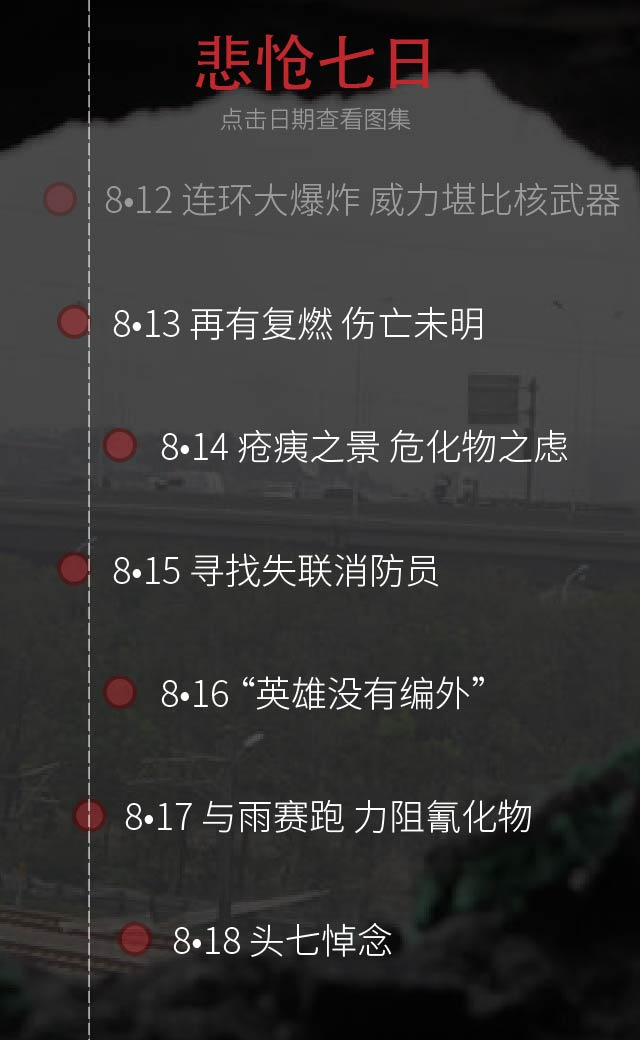
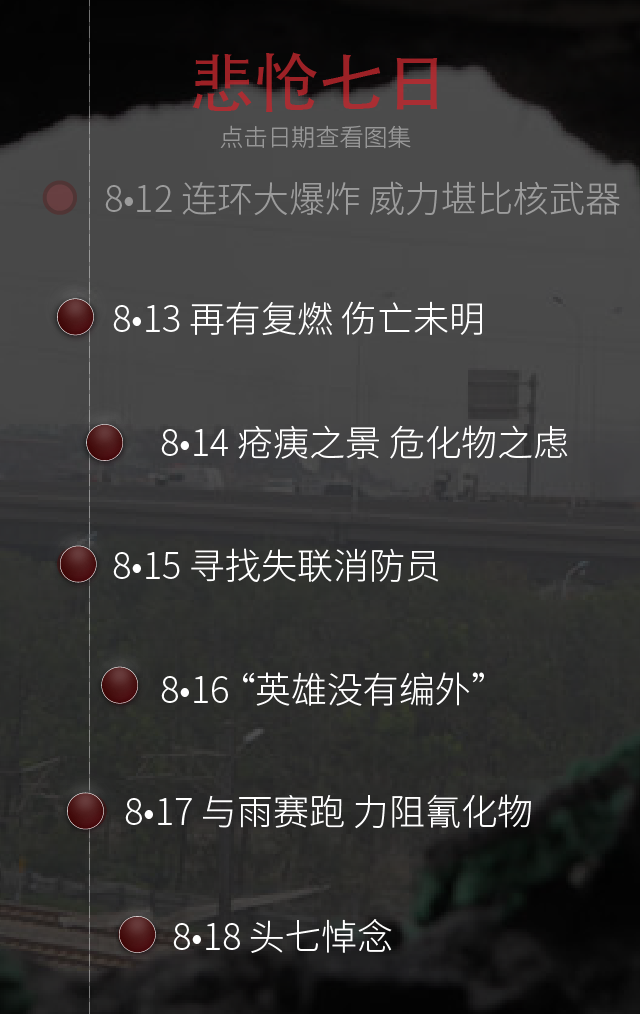
15081808

diff --git a/Tianjin_bomb/index.html b/Tianjin_bomb/index.html
@@ -62,11 +62,11 @@
 
         </div>
         <!--slide4-->
-        <div class="swiper-slide s4">
+    <!--     <div class="swiper-slide s4">
 
 <!--         <img src="img/logo_white.png" style="position:absolute;left:20px;top:40px;height:40px;width:40px">
  -->        
-        <div class="ani resize" style="width:90%;height:auto;left:5%;top:10%;z-index:4;" swiper-animate-effect="fadeInUp" swiper-animate-duration="0.5s" swiper-animate-delay="0s"  >
+     <!--    <div class="ani resize" style="width:90%;height:auto;left:5%;top:10%;z-index:4;" swiper-animate-effect="fadeInUp" swiper-animate-duration="0.5s" swiper-animate-delay="0s"  >
         <p style="color:white;font-size:25px;z-index:10">复燃</p> 
         </div>
         <img src="img/4_refire.jpg" class="ani resize" style="width:90%;height:auto;left:5%;top:25%;z-index:4;" swiper-animate-effect="fadeInUp" swiper-animate-duration="0.5s" swiper-animate-delay="0.3s"  >
@@ -75,7 +75,7 @@
         </div>
         <img src="img/move_up_tip.png" style="width:40px;height:15px; top:450px; left:140px;" id="array" class="resizer">
 
-        </div>
+        </div> --> 
 
         <!--slide5-->
         <div class="swiper-slide s5">
@@ -214,7 +214,7 @@ var mySwiper = new Swiper ('.swiper-container', {
 
     function updateTimeBox_2(){
   //append base content
-   var time_box_2=$("<div class='time_box_2' id='time_box_2'></div>").css({"background-color":"black","opacity":".9","position":"absolute","top":"30px","left":"24px","width":"272px","height":"450px","z-index":"10"});
+   var time_box_2=$("<div class='time_box_2' id='time_box_2'></div>").css({"background-color":"black","opacity":".95","position":"absolute","top":"30px","left":"24px","width":"272px","height":"450px","z-index":"10"});
    $("#time_box_two").append(time_box_2);
     
     //append close button 
@@ -270,7 +270,7 @@ var mySwiper = new Swiper ('.swiper-container', {
    
 
     //append text
-    var time_box_2_content=$("<div id='time_box_2_content' class='map_content'>财新直击：泰达医院门口的志愿者和不少市民和出租车司机来来往往，运送伤员、物资。</div>");
+    var time_box_2_content=$("<div id='time_box_2_content' class='map_content'>上午，之前发生爆炸的天津滨海新区物流仓库发生复燃。</div>");
     time_box_2.append(time_box_2_content);
     //load the atlas
     var elem = document.getElementById('slider_time_2');
@@ -296,7 +296,7 @@ var mySwiper = new Swiper ('.swiper-container', {
 
     function updateTimeBox_3(){
   //append base content
-   var time_box_3=$("<div class='time_box_3' id='time_box_3'></div>").css({"background-color":"black","opacity":".9","position":"absolute","top":"30px","left":"24px","width":"272px","height":"450px","z-index":"10"});
+   var time_box_3=$("<div class='time_box_3' id='time_box_3'></div>").css({"background-color":"black","opacity":".95","position":"absolute","top":"30px","left":"24px","width":"272px","height":"450px","z-index":"10"});
    $("#time_box_three").append(time_box_3);
     
     //append close button 
@@ -362,7 +362,7 @@ var mySwiper = new Swiper ('.swiper-container', {
     callback: function(index, element) {
     $("#time_box_3_ol ol>li").attr("class",""),
     $("#time_box_3_ol ol>li").eq(index).attr("class", "current"),
-    $("#time_box_3_content").text($("#slider_time_4 ul>li").eq(index).find("img").attr("alt"))
+    $("#time_box_3_content").text($("#slider_time_3 ul>li").eq(index).find("img").attr("alt"))
 }
 });
 };
@@ -378,7 +378,7 @@ var mySwiper = new Swiper ('.swiper-container', {
 
     function updateTimeBox_4(){
   //append base content
-   var time_box_4=$("<div class='time_box_4' id='time_box_4'></div>").css({"background-color":"black","opacity":".9","position":"absolute","top":"30px","left":"24px","width":"272px","height":"450px","z-index":"10"});
+   var time_box_4=$("<div class='time_box_4' id='time_box_4'></div>").css({"background-color":"black","opacity":".95","position":"absolute","top":"30px","left":"24px","width":"272px","height":"450px","z-index":"10"});
    $("#time_box_four").append(time_box_4);
     
 
@@ -463,7 +463,7 @@ var mySwiper = new Swiper ('.swiper-container', {
 
     function updateTimeBox_5(){
   //append base content
-   var time_box_5=$("<div class='time_box_5' id='time_box_5'></div>").css({"background-color":"black","opacity":".9","position":"absolute","top":"30px","left":"24px","width":"272px","height":"450px","z-index":"10"});
+   var time_box_5=$("<div class='time_box_5' id='time_box_5'></div>").css({"background-color":"black","opacity":".95","position":"absolute","top":"30px","left":"24px","width":"272px","height":"450px","z-index":"10"});
    $("#time_box_five").append(time_box_5);
     
     //append close button 
@@ -563,7 +563,7 @@ var mySwiper = new Swiper ('.swiper-container', {
 
     function updateTimeBox_6(){
   //append base content
-   var time_box_6=$("<div class='time_box_6' id='time_box_6'></div>").css({"background-color":"black","opacity":".9","position":"absolute","top":"30px","left":"24px","width":"272px","height":"450px","z-index":"10"});
+   var time_box_6=$("<div class='time_box_6' id='time_box_6'></div>").css({"background-color":"black","opacity":".95","position":"absolute","top":"30px","left":"24px","width":"272px","height":"450px","z-index":"10"});
    $("#time_box_six").append(time_box_6);
     
     //append close button 
@@ -645,7 +645,7 @@ var mySwiper = new Swiper ('.swiper-container', {
 
     function updateTimeBox_7(){
   //append base content
-   var time_box_7=$("<div class='time_box_7' id='time_box_7'></div>").css({"background-color":"black","opacity":".9","position":"absolute","top":"30px","left":"24px","width":"272px","height":"450px","z-index":"10"});
+   var time_box_7=$("<div class='time_box_7' id='time_box_7'></div>").css({"background-color":"black","opacity":".95","position":"absolute","top":"30px","left":"24px","width":"272px","height":"450px","z-index":"10"});
    $("#time_box_seven").append(time_box_7);
     
     //append close button 
@@ -735,7 +735,7 @@ var mySwiper = new Swiper ('.swiper-container', {
 
     function updateMapBox_1(){
   //append base content
-   var map_box_1=$("<div class='map_box_1' id='map_box_1'></div>").css({"background-color":"black","opacity":".9","position":"absolute","top":"30px","left":"24px","width":"272px","height":"450px","z-index":"10"});
+   var map_box_1=$("<div class='map_box_1' id='map_box_1'></div>").css({"background-color":"black","opacity":".95","position":"absolute","top":"30px","left":"24px","width":"272px","height":"450px","z-index":"10"});
    $("#map_box_one").append(map_box_1);
     
     //append close button 
@@ -825,7 +825,7 @@ var mySwiper = new Swiper ('.swiper-container', {
 
     function updateMapBox_2(){
    //append map_box
-        var map_box_2=$("<div class='map_box_2' id='map_box_2'></div>").css({"background-color":"black","opacity":".9","position":"absolute","top":"30px","left":"24px","width":"272px","height":"450px","z-index":"10"});
+        var map_box_2=$("<div class='map_box_2' id='map_box_2'></div>").css({"background-color":"black","opacity":".95","position":"absolute","top":"30px","left":"24px","width":"272px","height":"450px","z-index":"10"});
         $("#map_box_two").append(map_box_2);
       //append map content
         var map_box_2_img=$("<img src='img/2-1.jpg'></img>").css({"position":"absolute","width":"100%","height":"auto","top":"10%"});
@@ -855,7 +855,7 @@ var mySwiper = new Swiper ('.swiper-container', {
 
     function updateMapBox_3(){
        //append map_box
-        var map_box_3=$("<div class='map_box_3' id='map_box_3'></div>").css({"background-color":"black","opacity":".9","position":"absolute","top":"30px","left":"24px","width":"272px","height":"450px","z-index":"10"});
+        var map_box_3=$("<div class='map_box_3' id='map_box_3'></div>").css({"background-color":"black","opacity":".95","position":"absolute","top":"30px","left":"24px","width":"272px","height":"450px","z-index":"10"});
         $("#map_box_three").append(map_box_3);
       //append map content
         var map_box_3_img=$("<img src='img/3-1.jpg'></img>").css({"position":"absolute","width":"100%","height":"auto","top":"10%"});
@@ -883,7 +883,7 @@ var mySwiper = new Swiper ('.swiper-container', {
 
     function updateMapBox_4(){
          //append base content
-   var map_box_4=$("<div class='map_box_4' id='map_box_4'></div>").css({"background-color":"black","opacity":".9","position":"absolute","top":"30px","left":"24px","width":"272px","height":"450px","z-index":"10"});
+   var map_box_4=$("<div class='map_box_4' id='map_box_4'></div>").css({"background-color":"black","opacity":".95","position":"absolute","top":"30px","left":"24px","width":"272px","height":"450px","z-index":"10"});
    $("#map_box_four").append(map_box_4);
     
     //append close button 
@@ -963,7 +963,7 @@ var mySwiper = new Swiper ('.swiper-container', {
 
     function updateMapBox_5(){
         //append map_box
-        var map_box_5=$("<div class='map_box_5' id='map_box_5'></div>").css({"background-color":"black","opacity":".9","position":"absolute","top":"30px","left":"24px","width":"272px","height":"450px","z-index":"10"});
+        var map_box_5=$("<div class='map_box_5' id='map_box_5'></div>").css({"background-color":"black","opacity":".95","position":"absolute","top":"30px","left":"24px","width":"272px","height":"450px","z-index":"10"});
         $("#map_box_five").append(map_box_5);
       //append map content
         var map_box_5_img=$("<img src='img/5-1.jpg'></img>").css({"position":"absolute","width":"100%","height":"auto","top":"10%"});
@@ -991,7 +991,7 @@ var mySwiper = new Swiper ('.swiper-container', {
 
     function updateMapBox_6(){
        //append map_box
-        var map_box_6=$("<div class='map_box_6' id='map_box_6'></div>").css({"background-color":"black","opacity":".9","position":"absolute","top":"30px","left":"24px","width":"272px","height":"450px","z-index":"10"});
+        var map_box_6=$("<div class='map_box_6' id='map_box_6'></div>").css({"background-color":"black","opacity":".95","position":"absolute","top":"30px","left":"24px","width":"272px","height":"450px","z-index":"10"});
         $("#map_box_six").append(map_box_6);
       //append map content
         var map_box_6_img=$("<img src='img/6-1.jpg'></img>").css({"position":"absolute","width":"100%","height":"auto","top":"10%"});
@@ -1019,7 +1019,7 @@ var mySwiper = new Swiper ('.swiper-container', {
 
     function updateMapBox_7(){
     //append base content
-   var map_box_7=$("<div class='map_box_7' id='map_box_7'></div>").css({"background-color":"black","opacity":".9","position":"absolute","top":"30px","left":"24px","width":"272px","height":"450px","z-index":"10"});
+   var map_box_7=$("<div class='map_box_7' id='map_box_7'></div>").css({"background-color":"black","opacity":".95","position":"absolute","top":"30px","left":"24px","width":"272px","height":"450px","z-index":"10"});
    $("#map_box_seven").append(map_box_7);
     
     //append close button 
@@ -1100,7 +1100,7 @@ var mySwiper = new Swiper ('.swiper-container', {
 
     function updateMapBox_8(){
           //append base content
-   var map_box_8=$("<div class='map_box_8' id='map_box_8'></div>").css({"background-color":"black","opacity":".9","position":"absolute","top":"30px","left":"24px","width":"272px","height":"450px","z-index":"10"});
+   var map_box_8=$("<div class='map_box_8' id='map_box_8'></div>").css({"background-color":"black","opacity":".95","position":"absolute","top":"30px","left":"24px","width":"272px","height":"450px","z-index":"10"});
    $("#map_box_eight").append(map_box_8);
     
     //append close button 
@@ -1181,7 +1181,7 @@ var mySwiper = new Swiper ('.swiper-container', {
 
        function updateMapBox_9(){
          //append map_box
-        var map_box_9=$("<div class='map_box_9' id='map_box_9'></div>").css({"background-color":"black","opacity":".9","position":"absolute","top":"30px","left":"24px","width":"272px","height":"450px","z-index":"10"});
+        var map_box_9=$("<div class='map_box_9' id='map_box_9'></div>").css({"background-color":"black","opacity":".95","position":"absolute","top":"30px","left":"24px","width":"272px","height":"450px","z-index":"10"});
         $("#map_box_nine").append(map_box_9);
       //append map content
         var map_box_9_img=$("<img src='img/5-9_bomb.jpg'></img>").css({"position":"absolute","width":"100%","height":"auto","top":"10%"});

diff --git a/Tianjin_bomb/css/style.css b/Tianjin_bomb/css/style.css
@@ -149,49 +149,49 @@
 }
 #Time_frame_1{
     position: absolute;
-    top:21.1%;
+    top:24%;
     width: 90%;
     left: 5%;
     height:50px;
 }
 #Time_frame_2{
     position: absolute;
-    top:31.7%;
+    top:35%;
     width: 90%;
     left: 5%;
     height:50px;
 }
 #Time_frame_3{
     position: absolute;
-    top:42.3%;
+    top:45%;
     width: 90%;
     left: 5%;
     height:50px;
 }
 #Time_frame_4{
     position: absolute;
-    top:52.8%;
+    top:56%;
     width: 90%;
     left: 5%;
     height:50px;
 }
 #Time_frame_5{
     position: absolute;
-    top:65%;
+    top:67%;
     width: 90%;
     left: 5%;
     height:50px;
 }
 #Time_frame_6{
     position: absolute;
-    top:75%;
+    top:78%;
     width: 90%;
     left: 5%;
     height:50px;
 }
 #Time_frame_7{
     position: absolute;
-    top:86%;
+    top:88%;
     width: 90%;
     left: 5%;
     height:50px;
